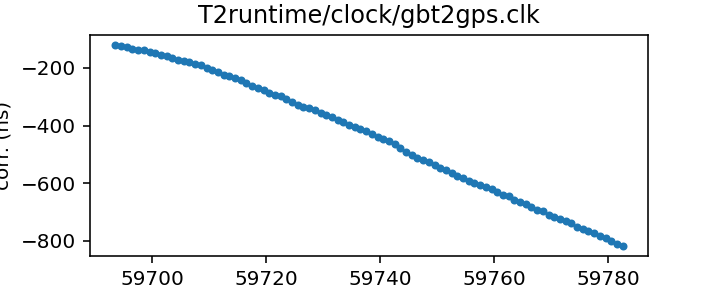
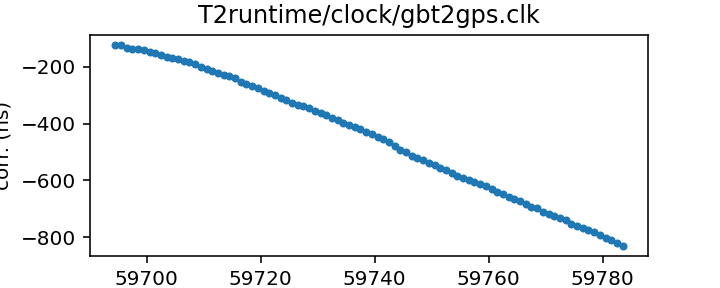
Routine gh-pages update from Github action Sun Jul 24 20:34:53 UTC 2022

diff --git a/status.md b/status.md
@@ -13,17 +13,17 @@ name of each clock file links to a page with more details.
 
 | Name | File | Corrections start | Corrections end | Last check date | Last check result 
 |:--- |:--- | --- | --- | --- |:--- 
-| [GPS to UTC](T2runtime/clock/gps2utc.clk.html) | `T2runtime/clock/gps2utc.clk` | 1993-01-01 MJD 48988.0 | 2022-06-29 MJD 59759.0 | 2022-07-23 | Unchanged 
-| [GPS to UTC (Combined Clock)](T2runtime/clock/gps2utc_cc.clk.html) | `T2runtime/clock/gps2utc_cc.clk` | 1993-01-01 MJD 48988.0 | 2022-06-29 MJD 59759.0 | 2022-07-23 | Unchanged 
-| [GPS to UTC (Corrected)](T2runtime/clock/gps2utc_c0p.clk.html) | `T2runtime/clock/gps2utc_c0p.clk` | 2010-12-29 MJD 55559.0 | 2022-06-29 MJD 59759.0 | 2022-07-23 | Unchanged 
-| [GBT](tempo/clock/time_gbt.dat.html) | `tempo/clock/time_gbt.dat` | 2000-12-31 MJD 51909.5 | 2022-07-22 MJD 59782.5 | 2022-07-23 | Updated 
-| [GBT (TEMPO2 converted from TEMPO)](T2runtime/clock/gbt2gps.clk.html) | `T2runtime/clock/gbt2gps.clk` | 2000-12-31 MJD 51909.5 | 2022-07-22 MJD 59782.5 | 2022-07-23 | Updated 
+| [GPS to UTC](T2runtime/clock/gps2utc.clk.html) | `T2runtime/clock/gps2utc.clk` | 1993-01-01 MJD 48988.0 | 2022-06-29 MJD 59759.0 | 2022-07-24 | Unchanged 
+| [GPS to UTC (Combined Clock)](T2runtime/clock/gps2utc_cc.clk.html) | `T2runtime/clock/gps2utc_cc.clk` | 1993-01-01 MJD 48988.0 | 2022-06-29 MJD 59759.0 | 2022-07-24 | Unchanged 
+| [GPS to UTC (Corrected)](T2runtime/clock/gps2utc_c0p.clk.html) | `T2runtime/clock/gps2utc_c0p.clk` | 2010-12-29 MJD 55559.0 | 2022-06-29 MJD 59759.0 | 2022-07-24 | Unchanged 
+| [GBT](tempo/clock/time_gbt.dat.html) | `tempo/clock/time_gbt.dat` | 2000-12-31 MJD 51909.5 | 2022-07-23 MJD 59783.5 | 2022-07-24 | Updated 
+| [GBT (TEMPO2 converted from TEMPO)](T2runtime/clock/gbt2gps.clk.html) | `T2runtime/clock/gbt2gps.clk` | 2000-12-31 MJD 51909.5 | 2022-07-23 MJD 59783.5 | 2022-07-24 | Updated 
 | [Jodrell Bank](T2runtime/clock/jb2gps.clk.html) | `T2runtime/clock/jb2gps.clk` | 2006-10-13 MJD 54021.4 | 2021-11-03 MJD 59521.0 | 2022-07-20 | Unchanged 
 | [Jodrell Bank Roach](T2runtime/clock/jbroach2jb.clk.html) | `T2runtime/clock/jbroach2jb.clk` | 2006-10-13 MJD 54021.4 | 2018-03-20 MJD 58197.6 | 2022-07-20 | Unchanged 
 | [Jodrell Bank DFB](T2runtime/clock/jbdfb2jb.clk.html) | `T2runtime/clock/jbdfb2jb.clk` | 2006-10-13 MJD 54021.4 | 2017-05-11 MJD 57884.0 | 2022-07-20 | Unchanged 
 | [Meerkat (observatory)](T2runtime/clock/mk2utc_observatory.clk.html) | `T2runtime/clock/mk2utc_observatory.clk` | 2019-01-01 MJD 58484.0 | 2022-06-29 MJD 59760.0 | 2022-07-18 | Unchanged 
-| [Leap seconds](tempo/clock/leap.sec.html) | `tempo/clock/leap.sec` | 1972-07-01 MJD 41499.0 | 2017-01-01 MJD 57754.0 | 2022-07-23 | Unchanged 
-| [UT1 table](tempo/clock/ut1.dat.html) | `tempo/clock/ut1.dat` | 1973-01-02 MJD 41684.0 | 2023-07-29 MJD 60154.0 | 2022-07-23 | Unchanged 
+| [Leap seconds](tempo/clock/leap.sec.html) | `tempo/clock/leap.sec` | 1972-07-01 MJD 41499.0 | 2017-01-01 MJD 57754.0 | 2022-07-24 | Unchanged 
+| [UT1 table](tempo/clock/ut1.dat.html) | `tempo/clock/ut1.dat` | 1973-01-02 MJD 41684.0 | 2023-07-29 MJD 60154.0 | 2022-07-24 | Unchanged 
 
 
 

diff --git a/T2runtime/clock/gbt2gps.clk.md b/T2runtime/clock/gbt2gps.clk.md
@@ -23,14 +23,13 @@ If questions arise about the conversion, contact Anne Archibald
 | Format | tempo2 |
 | Bogus last correction | False |
 | Clock file start | 2000-12-31 MJD 51909.5 |
-| Clock file end | 2022-07-22 MJD 59782.5 |
+| Clock file end | 2022-07-23 MJD 59783.5 |
 | Update interval (days) | 1 |
-| Last update attempt | 2022-07-23 |
+| Last update attempt | 2022-07-24 |
 | Last update result | Updated |
 
 Log entries from the last few update attempts:
 ```
-2022-07-14 20:34:53.973 - Updated
 2022-07-15 20:34:27.499 - Updated
 2022-07-16 20:32:14.990 - Updated
 2022-07-17 20:32:43.693 - Updated
@@ -40,12 +39,13 @@ Log entries from the last few update attempts:
 2022-07-21 20:36:15.090 - Updated
 2022-07-22 20:35:18.641 - Updated
 2022-07-23 20:33:48.614 - Updated
+2022-07-24 20:34:22.928 - Updated
 ```
 [Full log](https://raw.githubusercontent.com/ipta/pulsar-clock-corrections/main/log/T2runtime/clock/gbt2gps.clk.log)
 
 Leading comments from clock file:
 
-    # This file was automatically converted from tempo/clock/time_gbt.dat on 2022-07-23 20:33:48.532
+    # This file was automatically converted from tempo/clock/time_gbt.dat on 2022-07-24 20:34:22.839
 
 
 

diff --git a/tempo/clock/time_gbt.dat.md b/tempo/clock/time_gbt.dat.md
@@ -18,14 +18,13 @@ If questions arise, contact Ryan S. Lynch <rlynch@nrao.edu>.
 | Format | tempo |
 | Bogus last correction | False |
 | Clock file start | 2000-12-31 MJD 51909.5 |
-| Clock file end | 2022-07-22 MJD 59782.5 |
+| Clock file end | 2022-07-23 MJD 59783.5 |
 | Update interval (days) | 1 |
-| Last update attempt | 2022-07-23 |
+| Last update attempt | 2022-07-24 |
 | Last update result | Updated |
 
 Log entries from the last few update attempts:
 ```
-2022-07-14 20:34:53.886 - Updated
 2022-07-15 20:34:27.404 - Updated
 2022-07-16 20:32:14.926 - Updated
 2022-07-17 20:32:43.619 - Updated
@@ -35,6 +34,7 @@ Log entries from the last few update attempts:
 2022-07-21 20:36:14.996 - Updated
 2022-07-22 20:35:18.570 - Updated
 2022-07-23 20:33:48.530 - Updated
+2022-07-24 20:34:22.837 - Updated
 ```
 [Full log](https://raw.githubusercontent.com/ipta/pulsar-clock-corrections/main/log/tempo/clock/time_gbt.dat.log)
 

diff --git a/T2runtime/clock/gps2utc_c0p.clk.md b/T2runtime/clock/gps2utc_c0p.clk.md
@@ -30,12 +30,11 @@ about the BIPM's published corrections, contact <tai@bipm.org>.
 | Clock file start | 2010-12-29 MJD 55559.0 |
 | Clock file end | 2022-06-29 MJD 59759.0 |
 | Update interval (days) | 1 |
-| Last update attempt | 2022-07-23 |
+| Last update attempt | 2022-07-24 |
 | Last update result | Unchanged |
 
 Log entries from the last few update attempts:
 ```
-2022-07-14 20:34:53.139 - Unchanged
 2022-07-15 20:34:26.295 - Unchanged
 2022-07-16 20:32:14.434 - Unchanged
 2022-07-17 20:32:42.856 - Unchanged
@@ -45,6 +44,7 @@ Log entries from the last few update attempts:
 2022-07-21 20:36:14.199 - Unchanged
 2022-07-22 20:35:18.216 - Unchanged
 2022-07-23 20:33:48.139 - Unchanged
+2022-07-24 20:34:21.700 - Unchanged
 ```
 [Full log](https://raw.githubusercontent.com/ipta/pulsar-clock-corrections/main/log/T2runtime/clock/gps2utc_c0p.clk.log)
 

diff --git a/T2runtime/clock/gps2utc_cc.clk.md b/T2runtime/clock/gps2utc_cc.clk.md
@@ -29,12 +29,11 @@ about the BIPM's published corrections, contact <tai@bipm.org>.
 | Clock file start | 1993-01-01 MJD 48988.0 |
 | Clock file end | 2022-06-29 MJD 59759.0 |
 | Update interval (days) | 1 |
-| Last update attempt | 2022-07-23 |
+| Last update attempt | 2022-07-24 |
 | Last update result | Unchanged |
 
 Log entries from the last few update attempts:
 ```
-2022-07-14 20:34:53.122 - Unchanged
 2022-07-15 20:34:26.281 - Unchanged
 2022-07-16 20:32:14.423 - Unchanged
 2022-07-17 20:32:42.845 - Unchanged
@@ -44,6 +43,7 @@ Log entries from the last few update attempts:
 2022-07-21 20:36:14.182 - Unchanged
 2022-07-22 20:35:18.205 - Unchanged
 2022-07-23 20:33:48.122 - Unchanged
+2022-07-24 20:34:21.685 - Unchanged
 ```
 [Full log](https://raw.githubusercontent.com/ipta/pulsar-clock-corrections/main/log/T2runtime/clock/gps2utc_cc.clk.log)
 

diff --git a/T2runtime/clock/gps2utc.clk.md b/T2runtime/clock/gps2utc.clk.md
@@ -32,12 +32,11 @@ about the BIPM's published corrections, contact <tai@bipm.org>.
 | Clock file start | 1993-01-01 MJD 48988.0 |
 | Clock file end | 2022-06-29 MJD 59759.0 |
 | Update interval (days) | 1 |
-| Last update attempt | 2022-07-23 |
+| Last update attempt | 2022-07-24 |
 | Last update result | Unchanged |
 
 Log entries from the last few update attempts:
 ```
-2022-07-14 20:34:53.077 - Unchanged
 2022-07-15 20:34:26.237 - Unchanged
 2022-07-16 20:32:14.390 - Unchanged
 2022-07-17 20:32:42.812 - Unchanged
@@ -47,6 +46,7 @@ Log entries from the last few update attempts:
 2022-07-21 20:36:14.123 - Unchanged
 2022-07-22 20:35:18.172 - Unchanged
 2022-07-23 20:33:48.067 - Unchanged
+2022-07-24 20:34:21.641 - Unchanged
 ```
 [Full log](https://raw.githubusercontent.com/ipta/pulsar-clock-corrections/main/log/T2runtime/clock/gps2utc.clk.log)
 

diff --git a/tempo/clock/leap.sec.md b/tempo/clock/leap.sec.md
@@ -21,12 +21,11 @@ If there are any questions, contact Anne Archibald
 | File start | 1972-07-01 MJD 41499.0 |
 | File end | 2017-01-01 MJD 57754.0 |
 | Update interval (days) | 0 |
-| Last update attempt | 2022-07-23 |
+| Last update attempt | 2022-07-24 |
 | Last update result | Unchanged |
 
 Log entries from the last few update attempts:
 ```
-2022-07-14 20:34:57.141 - Unchanged
 2022-07-15 20:34:27.548 - Unchanged
 2022-07-16 20:32:15.021 - Unchanged
 2022-07-17 20:32:43.723 - Unchanged
@@ -36,5 +35,6 @@ Log entries from the last few update attempts:
 2022-07-21 20:36:18.757 - Unchanged
 2022-07-22 20:35:18.676 - Unchanged
 2022-07-23 20:33:48.655 - Unchanged
+2022-07-24 20:34:22.968 - Unchanged
 ```
 [Full log](https://raw.githubusercontent.com/ipta/pulsar-clock-corrections/main/log/tempo/clock/leap.sec.log)

diff --git a/tempo/clock/ut1.dat.md b/tempo/clock/ut1.dat.md
@@ -30,12 +30,11 @@ If there are any questions, contact Anne Archibald
 | File start | 1973-01-02 MJD 41684.0 |
 | File end | 2023-07-29 MJD 60154.0 |
 | Update interval (days) | 0 |
-| Last update attempt | 2022-07-23 |
+| Last update attempt | 2022-07-24 |
 | Last update result | Unchanged |
 
 Log entries from the last few update attempts:
 ```
-2022-07-14 20:35:07.829 - Updated
 2022-07-15 20:34:39.983 - Unchanged
 2022-07-16 20:32:22.926 - Unchanged
 2022-07-17 20:32:53.558 - Unchanged
@@ -45,5 +44,6 @@ Log entries from the last few update attempts:
 2022-07-21 20:36:28.559 - Updated
 2022-07-22 20:35:26.343 - Unchanged
 2022-07-23 20:33:56.494 - Unchanged
+2022-07-24 20:34:35.707 - Unchanged
 ```
 [Full log](https://raw.githubusercontent.com/ipta/pulsar-clock-corrections/main/log/tempo/clock/ut1.dat.log)
